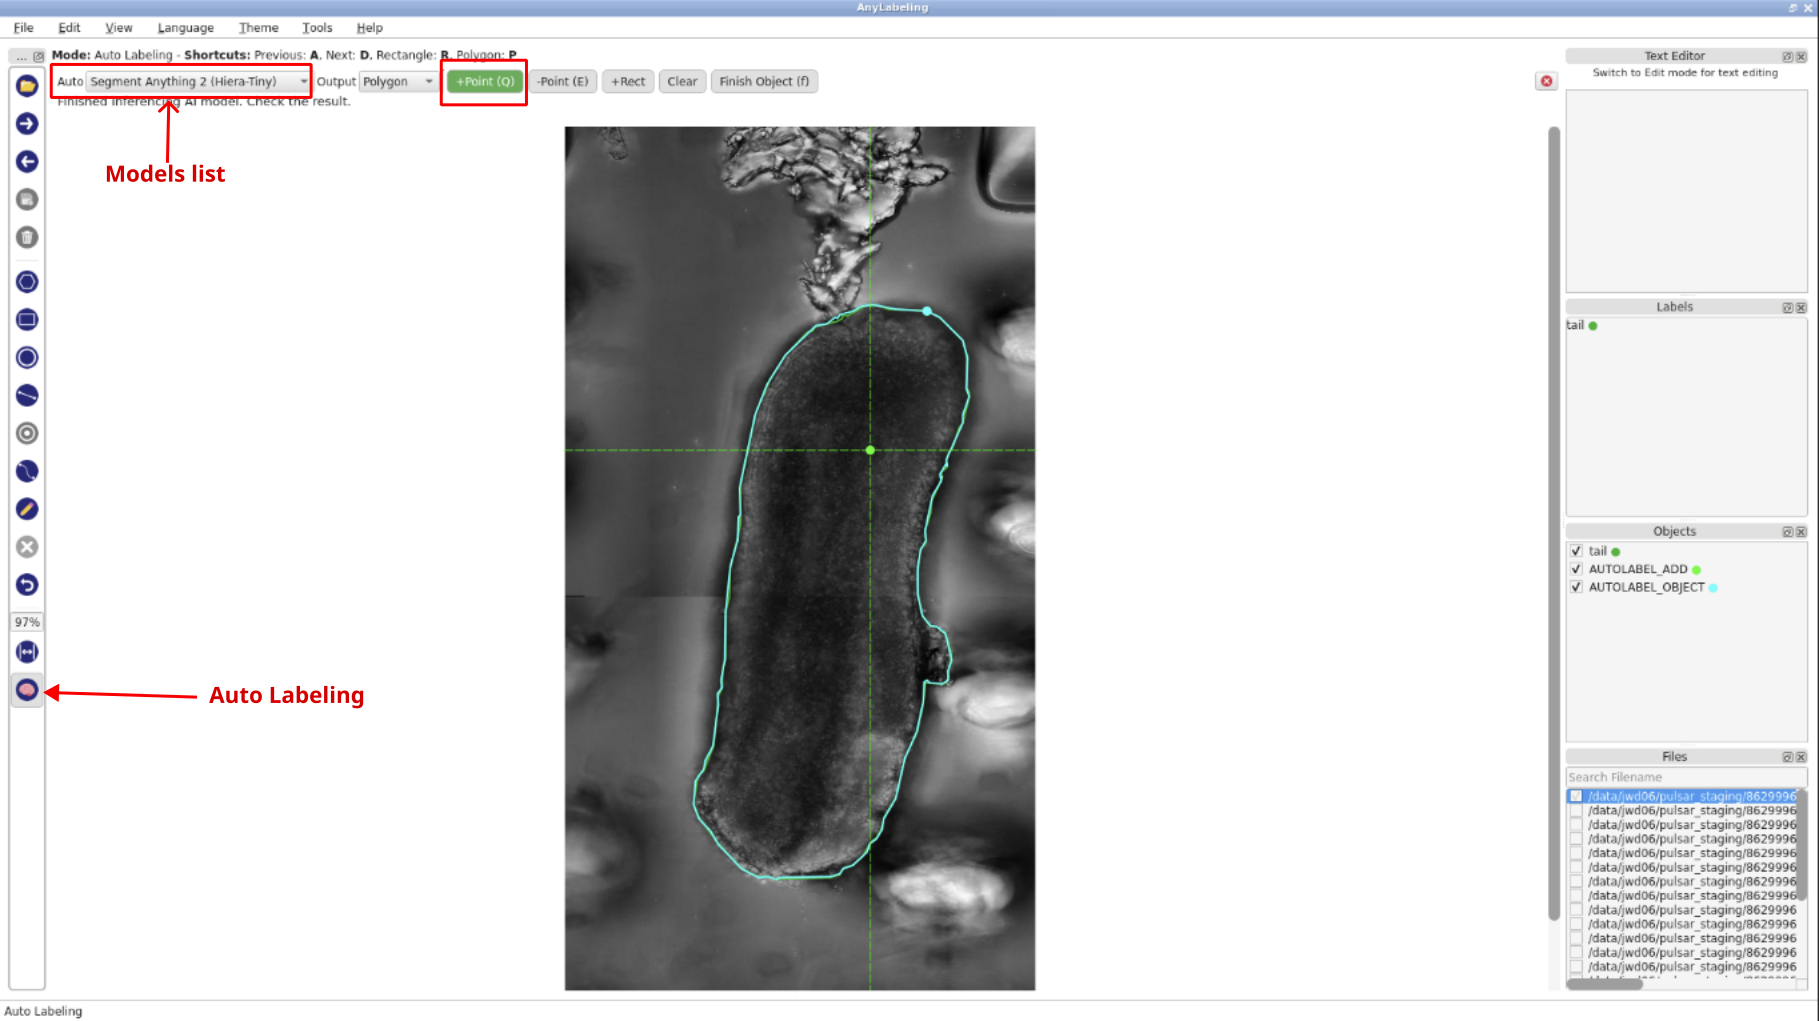
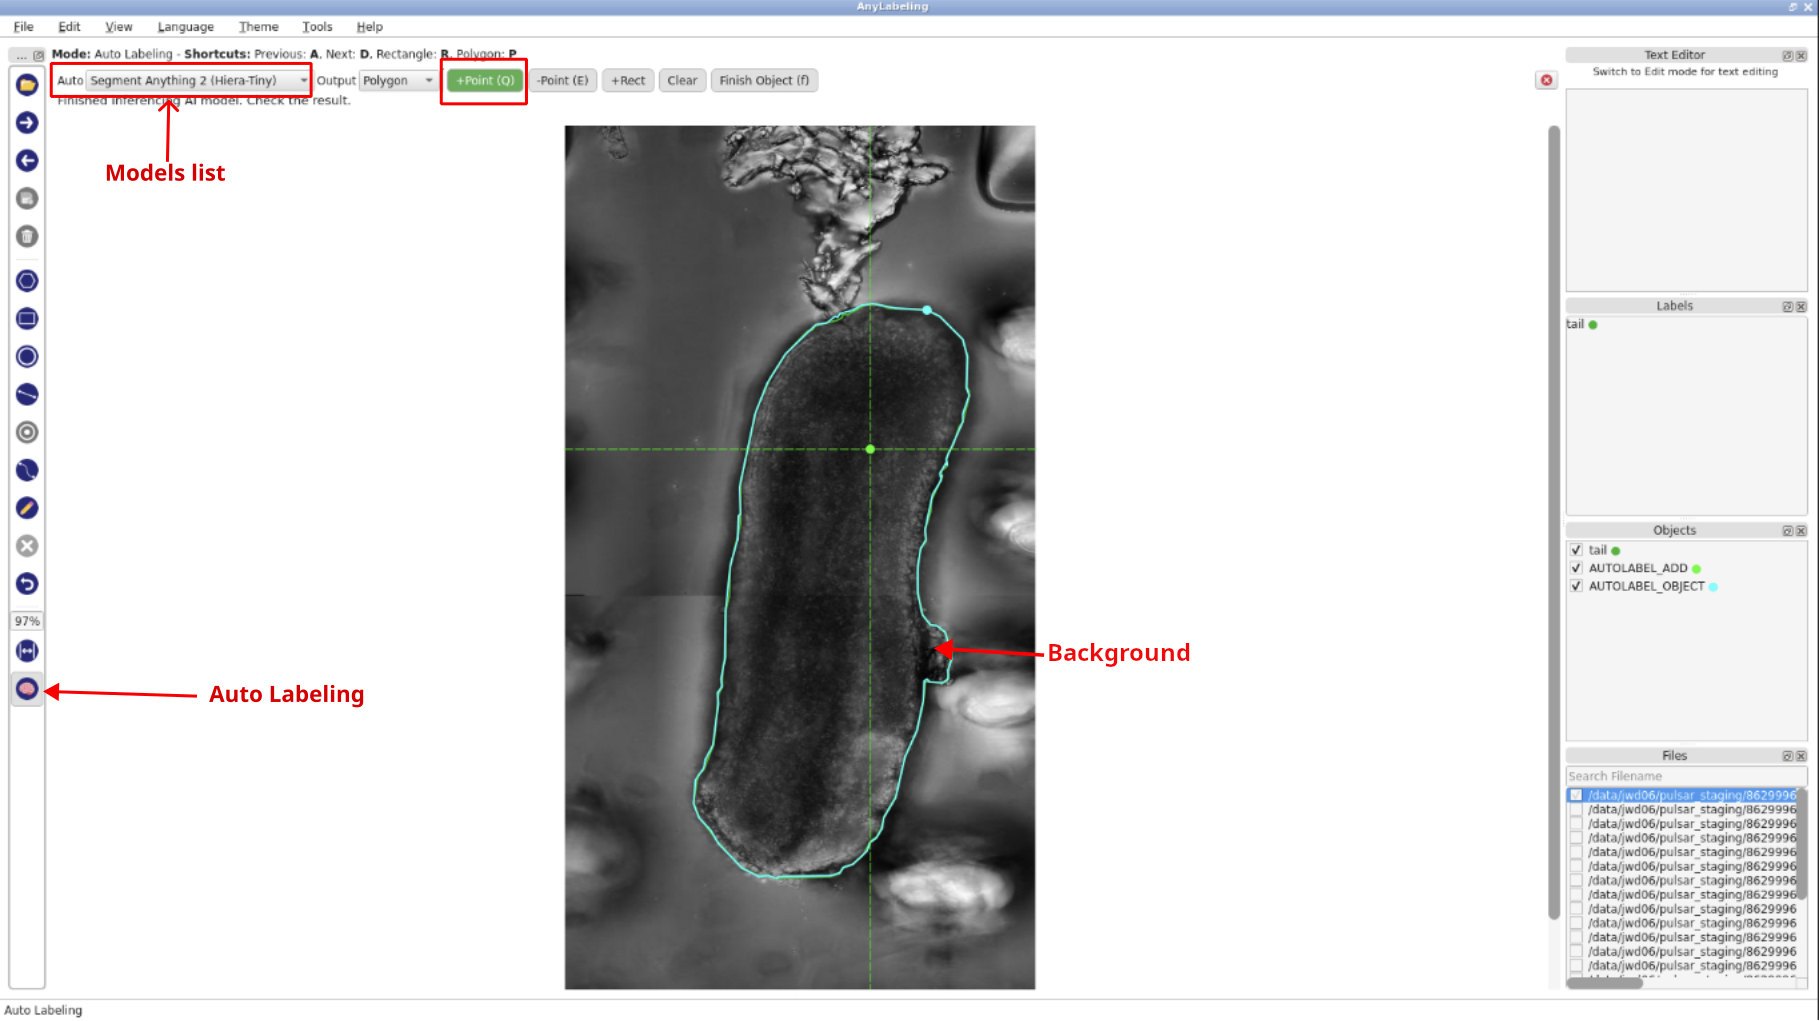
text updates based on feedback

diff --git a/topics/imaging/tutorials/yolo-segmentation-training/tutorial.md b/topics/imaging/tutorials/yolo-segmentation-training/tutorial.md
@@ -1,16 +1,16 @@
 ---
 layout: tutorial_hands_on
 
-title: Training Custom YOLO Models for Object Detection and Segmentation in Bioimages
+title: Training Custom YOLO Models for Segmentation in Bioimages
 zenodo_link: https://zenodo.org/records/15674585
 questions:
-- Why use YOLO for object detection and segmentation in bioimage analysis?
-- How can I train and use a custom YOLO model for detection or segmentation tasks using Galaxy?
+- Why use YOLO for segmentation in bioimage analysis?
+- How can I train and use a custom YOLO model for segmentation tasks using Galaxy?
 objectives:
-- Preprocess images (e.g., histogram equalization, format conversion) to prepare data for annotation and training
-- Perform human-in-the-loop object annotation using AnyLabeling interactive tool.
+- Preprocess images (e.g., contrast enhancement, format conversion) to prepare data for annotation and training
+- Perform manual/human-in-the-loop semi-automated object annotation.
 - Convert AnyLabeling annotation files into YOLO compatible format for training.
-- Train a custom YOLO model.
+- Train a custom YOLO model for segmentation.
 time_estimation: 2H
 key_points:
 - Image preprocessing (e.g., histogram equalization) can enhance model performance but may not be necessary for all datasets
@@ -23,9 +23,9 @@ contributors:
 ---
 
 
-Image annotations and model training are essential in bioimage analysis tasks.  In biology and related fields, researchers often deal with large volumes of microscopy images that require accurate annotation to train machine learning models.  Automate this process can save time and improve reproducibility, but high-quality training data remains critical. Human-in-the-loop workflows have emerged as a solution to bridge the gap between manual annotation and automated model training, enabling iterative improvements through user interaction.
+In bioimages, challenging morphologies are often quite hard to segment using traditional computer vision/image analysis methods. Therefore, using semi-supervised machine learning or deep learning for such tasks is getting more popular. 
 
-This tutorial introduces a reusable human-in-the-loop image segmentation and training workflow implemented in Galaxy, designed to streamline the creation of custom segmentation models using YOLO (You Only Look Once). The workflow integrates both interactive and headless tools. We demonstrate the workflow here with tail analysis images from growing embryo samples. The workflow can also be adapted to other datasets with minimal adjustments.
+This tutorial shows an easy-to-use and efficient workflow of training YOLO models in Galaxy. The workflow integrates both interactive and headless tools. We demonstrate the workflow here with bright field images of tails. The workflow can also be adapted to other datasets with minimal adjustments.
 
 > <agenda-title></agenda-title>
 >
@@ -89,11 +89,11 @@ This tutorial introduces a reusable human-in-the-loop image segmentation and tra
 
 # Preprocessing the images 
 
-The example dataset used in this tutorial consists of images in TIFF format. However, the YOLO training tool in Galaxy currently supports only JPEG (JPG) images. Therefore, as a necessary preprocessing step, the input images must be converted to the appropriate format. In this workflow, we first apply histogram equalization to the images and then convert them from TIFF to JPG.
+The example dataset used in this tutorial consists of images in TIFF format. However, the YOLO training tool in Galaxy currently supports only JPEG (JPG) images. Therefore, as a necessary preprocessing step, the input images must be converted to the appropriate format. In this workflow, we first do contrast enhancement using adaptive histogram equalization of the images and then convert them from TIFF to JPG.
 
 It's important to note that these preprocessing steps are tailored to the example data. When applying this workflow to other images, the specific preprocessing steps may vary. Format conversion is mandatory if the images are not already in JPG, but contrast enhancement or other adjustments may or may not be needed depending on images. Users should adapt this part of the workflow to best suit their own data.
 
-## Perform histogram equalization
+## Perform contrast enhancement
 
 > <hands-on-title> Normalize Histogram </hands-on-title>
 >
@@ -119,9 +119,9 @@ It's important to note that these preprocessing steps are tailored to the exampl
 
 
 # Annotating the images
-Once the input images are preprocessed and converted to JPG format, we will need to manually annotate the images using AnyLabeling. AnyLabeling is an interactive labeling tool integrated into Galaxy that allows users to draw bounding boxes or other shapes around objects of interest. 
+Once the input images are preprocessed and converted to JPG format, we need to annotate the images. AnyLabeling is an interactive labeling tool integrated into Galaxy that allows users to draw bounding boxes or other shapes around objects of interest. 
 
-In this tutorial, we annotate all 22 example images using the tool's `Auto labeling` function, which helps accelerate the annotation process. The labels will later be used to train the YOLO model. The annotation process is entirely human-in-the-loop, so the quality and relevance of the labels directly influence the performance of the resulting model. 
+In this tutorial, we annotate all 22 example images using the tool's `Auto labeling` function, which helps accelerate the annotation process. The label files generated from AnyLabeling will later be used to train a YOLO model. The annotation process is entirely human-in-the-loop, so the quality and relevance of the labels directly influence the performance of the resulting model. 
 
 > <hands-on-title> Interactive Annotation </hands-on-title>
 >
@@ -145,10 +145,11 @@ In this tutorial, we annotate all 22 example images using the tool's `Auto label
 >
 > ![al open dir](../../images/yolo-train/al_label.png){: width="75%"}
 >
->    - If the inferred polygon is not accurate, click `-Point`, then click on a background (non-object) area to refine the results. The model will re-run the inference.
+>    **Note:** If the selected auto labeling model detects background or object not part of the object of interest, we can refine it by adding a negative prompt to the image where it detects background. Vice versa, if the model does not completely detect the boundaries of the objects, one can add a positive prompt to the areas inside object that were missed by the model. 
+>    - In the previous step, the results included some background, as shown in the picture. To refine them, click `-Point`, then click on the background area. The model will re-run the inference.
 >
 > ![al open dir](../../images/yolo-train/al_label_1.png){: width="75%"}
->    - After the inference is complete, click `Finish Object`. In the `Enter object label` box, type `tail` then click `OK` to save the annotation.
+>    - After the inference is complete, click `Finish Object`. In the `Enter object label` box, type `tail` then click `OK`. This will automatically create a label file in json format that contains the x,y coordinates of the polygon.
 >
 > ![al open dir](../../images/yolo-train/al_finish.png){: width="75%"}
 >
@@ -159,7 +160,7 @@ In this tutorial, we annotate all 22 example images using the tool's `Auto label
 
 
 # Prepare training data
-In this step, we will convert the annotation file generated by AnyLabeling (in JSON format) into YOLO compatible TXT files. This conversion is necessary because the YOLO training tool expects annotations in its specific text format, where each object is described by a class ID and corresponding bounding box coordinates.
+In this step, we will convert the annotation file generated by AnyLabeling (in JSON format) into YOLO compatible txt files. This conversion is necessary because the YOLO training tool expects annotations in its specific text format, where each object is described by a class ID and corresponding bounding box coordinates. The YOLO txt file should be in the format described [here](https://roboflow.com/formats/yolo).
 
 > <hands-on-title></hands-on-title>
 > 
@@ -174,7 +175,7 @@ In this step, we will convert the annotation file generated by AnyLabeling (in J
 # Train a YOLO model
 
 > <hands-on-title> </hands-on-title>
-> In this step, we will train a custom YOLO model using the prepared images and annotation files.
+> In this step, we will train a custom YOLO model for segmentation using the prepared images and annotation files.
 > 1. {% tool [Perform YOLO training](toolshed.g2.bx.psu.edu/repos/bgruening/yolo_training/yolo_training/8.3.0+galaxy2) %} with the following parameters:
 >    - {% icon param-file %} *"Input images"*: `input-converted` (output of **Convert image format** {% icon tool %})
 >    - {% icon param-file %} *"Input YOLO txt files"*: `yolo-files` (output of **Convert AnyLabeling JSON to YOLO text** {% icon tool %})
@@ -191,7 +192,7 @@ In this step, we will convert the annotation file generated by AnyLabeling (in J
 >        - *"Learning rate"*: `0.02`
 >        - *"Weight decay"*: `0.001`
 >        - *"Confidence"*: `0.5`
->        - *"IoU"*: `0.7`
+>        - *"IoU (Intersection over union)"*: `0.7`
 >        - *"Max. number of detection"*: `300`
 >
 >
@@ -210,17 +211,16 @@ In this step, we will convert the annotation file generated by AnyLabeling (in J
 > >
 > >    **Image size**: Determines the resolution used during training. Larger sizes can improve accuracy but require more memory and time.
 > >
+> >    **Image scale augmentation**: Resizes images by a random factor within the specified range. The scale hyperparameter defines the scaling factor, with the final adjustment randomly chosen between 1-scale and 1+scale. For example, with scale=0.5, the scaling is randomly selected within 0.5 to 1.5.
 > >
-> >    **Image scale augmentation**: Applies random resizing of images during training to improve robustness. Values between 0.5 and 1.0 are commonly used.
+> >    **Image rotation augmentation**: Rotates images randomly within the specified range. The degrees hyperparameter defines the rotation angle, with the final adjustment randomly chosen between -degrees and degrees. For example, with degrees=10.0, the rotation is randomly selected within -10.0 to 10.0.
 > >
-> >    **Image rotation augmentation**: Helps the model generalize to rotated objects. Keep small (e.g., 5–15°) for biological images to avoid distortion.
-> >
-> >    **Image HSV-Value**: Randomly adjusts image brightness and color during training. Can help with generalization, especially when image lighting varies.
+> >    **Image HSV-Value**: Changes the brightness of the image. The hsv_v hyperparameter defines the shift magnitude, with the final adjustment randomly chosen between -hsv_v and hsv_v. For example, with hsv_v=0.4, the intensity is randomly selected within -0.4 to 0.4.
 > >
 > >    **Learning rate**: Controls how fast the model learns. If training is unstable or not improving, try lowering this (e.g., to 0.01 or 0.005).
 > >
 > >    **Weight decay**: Helps prevent overfitting by penalizing large weights. Usually works well between 0.0001 and 0.01.
-> > 3. Increasing the confidence threshold results in fewer, more reliable segmentations, while decreasing it may produce more segments, including uncertain or noisy ones.
+> > 3. This value sets the minimum confidence threshold for detections. Objects detected with confidence below this threshold will be disregarded. Adjusting this value can help reduce false positives.
 > >
 > {: .solution}
 >
@@ -237,4 +237,4 @@ Once training is complete, the resulting model can be used to label new images. 
 
 # Conclusion
 
-This tutorial demonstrated how to train a custom YOLO model for object detection and segmentation in bioimages using Galaxy. By combining image preprocessing, human-in-the-loop annotation, format conversion, and model training, we have built a complete workflow. We can apply the trained model to new image data and further refine our workflow as needed.
+This tutorial demonstrated how to train a custom YOLO model for segmentation in bioimages using Galaxy. By combining image preprocessing, human-in-the-loop annotation, format conversion, and model training, we have built a complete workflow. We can apply the trained model to new image data and further refine our workflow as needed.
